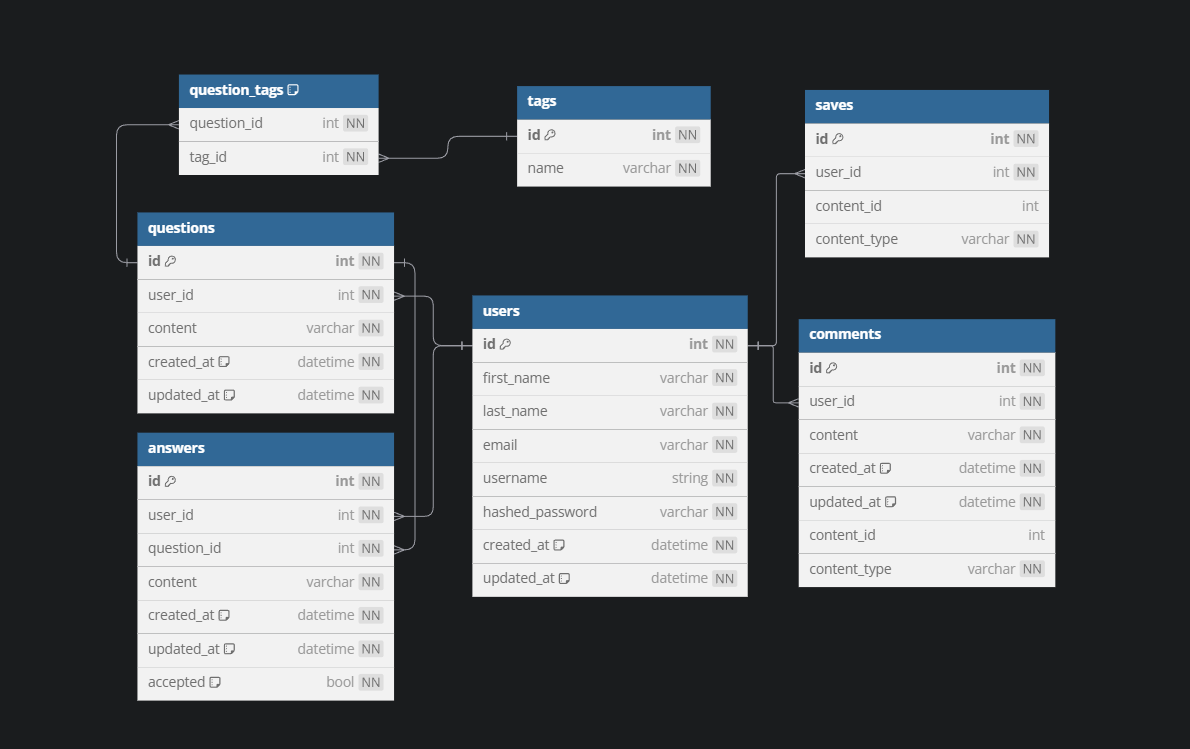
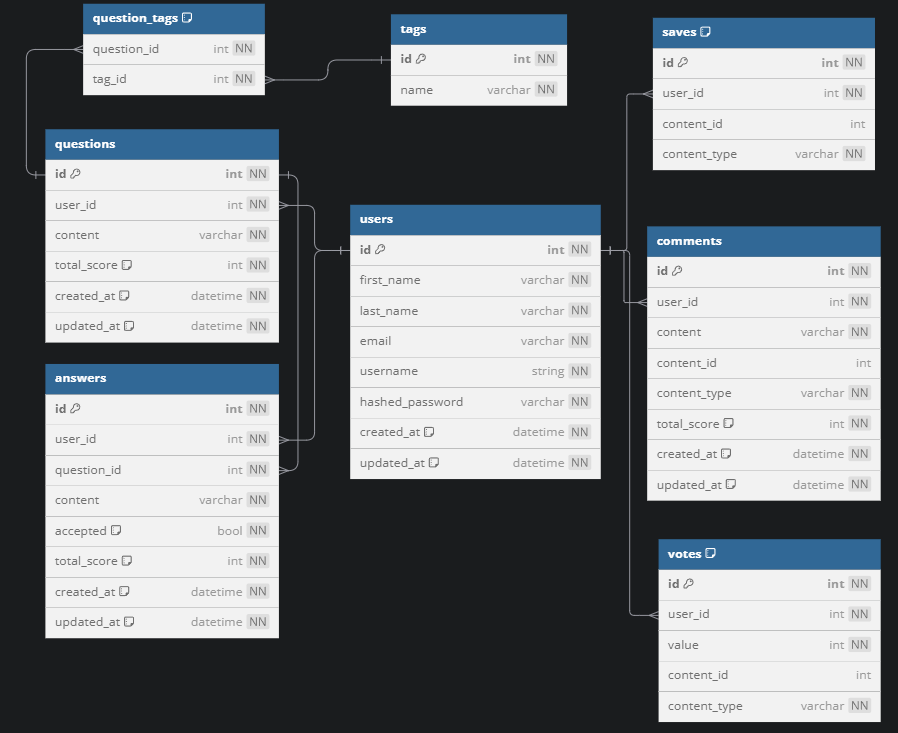
schema updates in planning

diff --git a/planning/db/schema.md b/planning/db/schema.md
@@ -24,6 +24,7 @@ Table questions {
   id int [pk, increment, not null] -- auto-increment primary key, required
   user_id int [ref: > users.id, not null] -- foreign key (users), required
   content varchar [not null] -- required
+  total_score int [not null, default: 0] -- required, .update_total_score()
   created_at datetime [not null, default: 'datetime.now(timezone.utc)'] -- required
   updated_at datetime [not null, default: 'datetime.now(timezone.utc)'] -- required
  }
@@ -36,6 +37,7 @@ Table questions {
   question_id int [ref: > questions.id, not null] -- foreign key (questions), required
   content varchar [not null] -- required
   accepted boolean [not null, default: false]
+  total_score int [not null, default: 0] -- required, .update_total_score()
   created_at datetime [not null, default: 'datetime.now(timezone.utc)'] -- required
   updated_at datetime [not null, default: 'datetime.now(timezone.utc)'] -- required
  }
@@ -49,6 +51,7 @@ Table comments {
   content varchar [not null]
   content_id int [not_null]
   content_type varchar [not null] -- 'question' or 'answer'
+  total_score int [not null, default: 0] -- required, .update_total_score()
   created_at datetime [not null, default: 'datetime.now(timezone.utc)']
   updated_at datetime [not null, default: 'datetime.now(timezone.utc)']
 }
@@ -61,6 +64,10 @@ Table saves {
     user_id int [ref: > users.id, not null] -- foreign key (users), required
     content_type varchar [not null] -- required, 'question' or 'answer' or 'comment'
     content_id int -- required foreign_key question.id or answer.id or comment.id
+
+    indexes {
+      (user_id, content_type, content_id)
+    }
   }
 ```
 ### Table: Tags
@@ -70,7 +77,20 @@ Table saves {
   name varchar [unique, not null] -- unique, required
  }
 ```
-
+### Table: Votes
+```sql
+Table votes {
+  id int [pk, increment, not null] -- autoincrement primary key, required
+  user_id int [ref: > users.id, not null] -- foreign key (users), required
+  value int [not null] -- -1 or 0 or 1
+  content_id int -- required foreign_key question.id or answer.id or comment.id
+  content_type varchar [not null] -- 'question' or 'answer' or 'comment'
+  
+  indexes {
+    (user_id, content_id, content_type)
+  }
+ }
+```
 ### Join-Table: Questions<>Tags
 ```sql
  Table question_tags {
